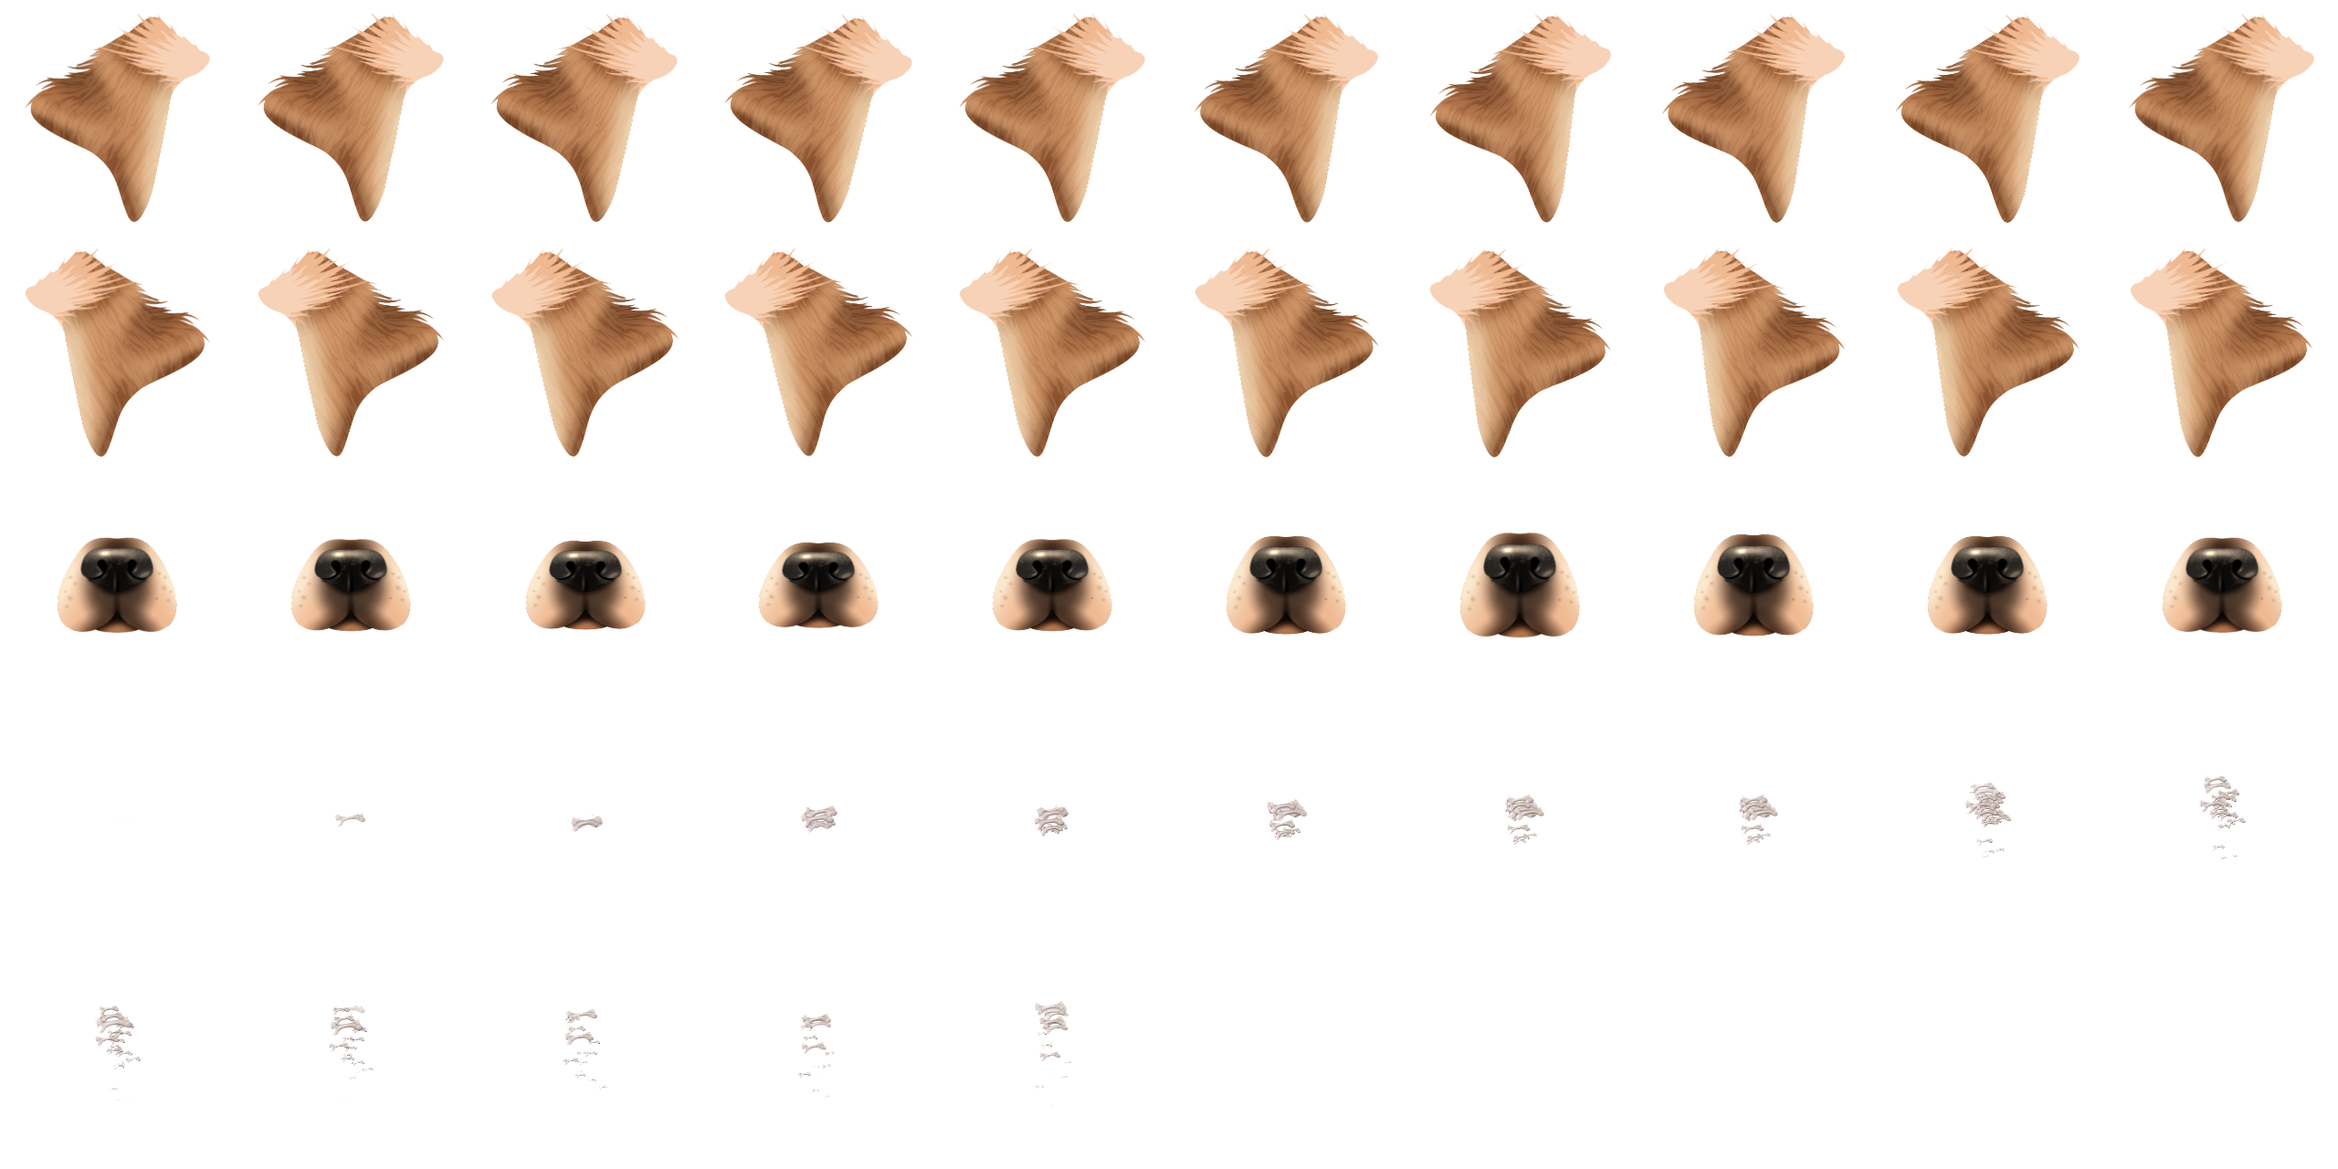
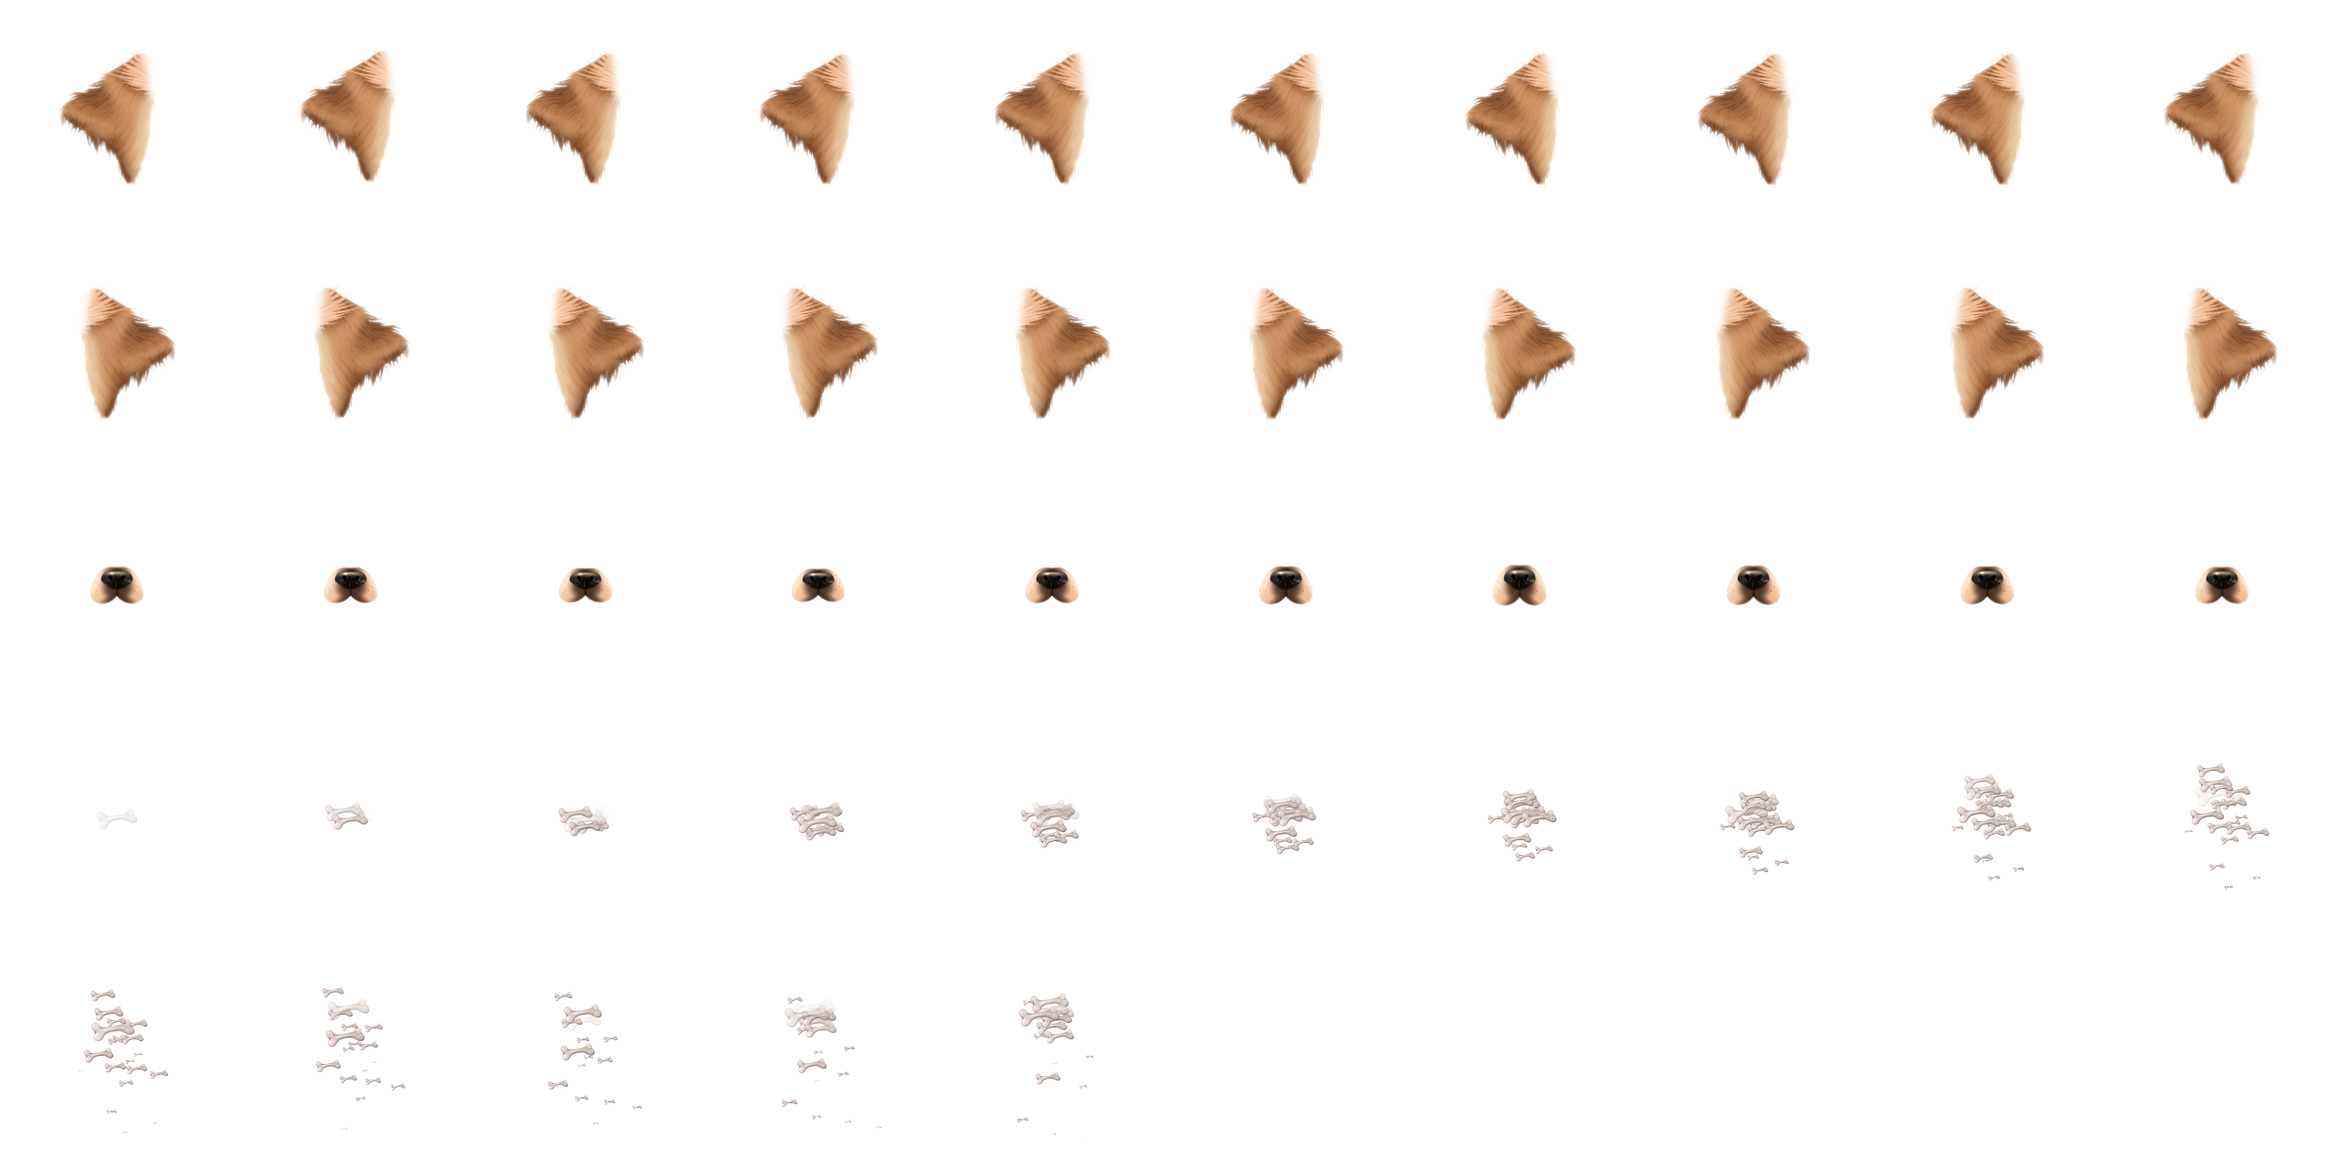
add semaphore

diff --git a/app/src/main/java/com/nhancv/facemask/tracking/FaceLandmarkTracking.java b/app/src/main/java/com/nhancv/facemask/tracking/FaceLandmarkTracking.java
@@ -17,6 +17,7 @@ import android.os.HandlerThread;
 import android.os.Message;
 import android.util.Log;
 
+import com.nhancv.facemask.fps.NSemaphore;
 import com.nhancv.facemask.fps.StableFps;
 import com.nhancv.facemask.m2d.OpenGLPreview;
 import com.nhancv.facemask.util.Constant;
@@ -25,6 +26,7 @@ import org.wysaid.nativePort.CGEDeformFilterWrapper;
 import org.wysaid.nativePort.CGENativeLibrary;
 
 import java.util.Locale;
+import java.util.concurrent.Semaphore;
 
 import zeusees.tracking.Face;
 import zeusees.tracking.FaceTracking;
@@ -81,7 +83,7 @@ public class FaceLandmarkTracking implements OnImageAvailableListener {
         this.openGlPreview = openGlPreview;
         this.mDeformWrapper = mDeformWrapper;
 
-        previewFps = new StableFps(30);
+        previewFps = new StableFps(10);
 
         redPaint = new Paint();
         redPaint.setColor(Color.RED);
@@ -105,7 +107,9 @@ public class FaceLandmarkTracking implements OnImageAvailableListener {
             @Override
             public void handleMessage(Message msg) {
                 if (msg.what == PREVIEW_RENDER_MSG) {
+                    long start = System.currentTimeMillis();
                     previewRenderProcess();
+                    Log.e(TAG, Thread.currentThread().getId() + " previewRenderHandler: " + (System.currentTimeMillis() - start) + "ms");
                 }
             }
         };
@@ -116,6 +120,8 @@ public class FaceLandmarkTracking implements OnImageAvailableListener {
             @Override
             public void handleMessage(Message msg) {
                 if (msg.what == FRAME_DATA_READY_MSG && multiTrack106 != null) {
+                    trackingSemaphore.acquire();
+                    long start = System.currentTimeMillis();
                     System.arraycopy(nv21Data, 0, trackingFrameBuffer, 0, nv21Data.length);
                     if (!initTrack106) {
                         multiTrack106.faceTrackingInit(trackingFrameBuffer, previewHeight, previewWidth);
@@ -123,6 +129,8 @@ public class FaceLandmarkTracking implements OnImageAvailableListener {
                     } else {
                         multiTrack106.faceTrackingUpdate(trackingFrameBuffer, previewHeight, previewWidth);
                     }
+                    trackingSemaphore.release();
+                    Log.e(TAG, Thread.currentThread().getId() + " trackingHandler: " + (System.currentTimeMillis() - start) + "ms");
                 }
             }
         };
@@ -160,9 +168,16 @@ public class FaceLandmarkTracking implements OnImageAvailableListener {
 
     }
 
+    private NSemaphore trackingSemaphore = new NSemaphore();
+
     @Override
     public void onImageAvailable(final ImageReader reader) {
-        if (!preImageProcess(reader)) return;
+        if(!trackingSemaphore.available()) return;
+        long start = System.currentTimeMillis();
+        if (!preImageProcess(reader)) {
+            return;
+        }
+        Log.e(TAG, Thread.currentThread().getId() + " onImageAvailable: " + (System.currentTimeMillis() - start) + "ms");
         // Fps for render to ui thread
         if (!previewFps.isStarted()) {
             previewFps.start(fps -> {
@@ -224,27 +239,27 @@ public class FaceLandmarkTracking implements OnImageAvailableListener {
             matrix.postTranslate(previewBmTmp.getHeight(), 0);
             Bitmap previewBm = Bitmap.createBitmap(previewBmTmp, 0, 0, previewBmTmp.getWidth(), previewBmTmp.getHeight(), matrix, false);
             // TODO: 2019-06-19 Filter with OpenGLES
-            Bitmap bmFiltered = CGENativeLibrary.filterImage_MultipleEffects(previewBm, Constant.EFFECT_ACTIVE, 1.0f);
+//            Bitmap bmFiltered = CGENativeLibrary.filterImage_MultipleEffects(previewBm, Constant.EFFECT_ACTIVE, 1.0f);
             // Show preview
             openGlPreview.maskUpdateLocation(face, previewWidth, previewHeight, transformMatrix);
 
             // Initialize a new Canvas instance
-            Canvas openGLCanvas = new Canvas(bmFiltered);
+            Canvas openGLCanvas = new Canvas(previewBm);
             openGlPreview.renderMaskToCanvas(openGLCanvas);
-
-            final String log;
-            long endTime = System.currentTimeMillis();
-            if (lastTime == 0 || endTime == lastTime) {
-                lastTime = System.currentTimeMillis();
-                log = "--";
-            } else {
-                log = String.format(Locale.getDefault(), "Fps: %d", 1000 / (endTime - lastTime));
-                lastTime = endTime;
-            }
 
             // Show landmark for debug
             // Draw landmarks to SurfaceView
             if (SHOW_LANDMARK) {
+                final String log;
+                long endTime = System.currentTimeMillis();
+                if (lastTime == 0 || endTime == lastTime) {
+                    lastTime = System.currentTimeMillis();
+                    log = "--";
+                } else {
+                    log = String.format(Locale.getDefault(), "Fps: %d", 1000 / (endTime - lastTime));
+                    lastTime = endTime;
+                }
+
                 openGLCanvas.setMatrix(transformMatrix);
                 if (face != null) {
                     Rect rect = new Rect(previewHeight - face.left, face.top, previewHeight - face.right, face.bottom);
@@ -263,7 +278,7 @@ public class FaceLandmarkTracking implements OnImageAvailableListener {
                 openGLCanvas.drawText(log, 10, 30, redPaint);
             }
 
-            openGlPreview.setImageBitmap(bmFiltered);
+            openGlPreview.setImageBitmap(previewBm);
 //            openGlPreview.flush(true, () -> {
 //                if (mDeformWrapper == null) return;
 //                mDeformWrapper.pushDeformStep();

diff --git a/app/src/main/java/com/nhancv/facemask/m2d/mask/dog/DogMask.java b/app/src/main/java/com/nhancv/facemask/m2d/mask/dog/DogMask.java
@@ -32,6 +32,7 @@ import android.graphics.BitmapFactory;
 import android.graphics.Canvas;
 import android.graphics.Matrix;
 import android.graphics.PointF;
+import android.util.Log;
 
 import com.nhancv.facemask.R;
 import com.nhancv.facemask.m2d.mask.BaseMask;
@@ -90,14 +91,13 @@ public class DogMask extends BaseMask implements Mask {
             super.update(face, previewWidth, previewHeight, scaleMatrix, solvePNP);
             //Buffer coors
             int nosePointId = 46;
-            int bonePointId = 0;
+            int bonePointId = 32;
             PointF noseF = new PointF(point2Ds[nosePointId].x, point2Ds[nosePointId].y);
             PointF boneF = new PointF(point2Ds[bonePointId].x, point2Ds[bonePointId].y);
             denoise(kmNoseX, kmNoseY, lastNoseF, noseF);
 
             Rotation rotation = new Rotation(solvePNP.getRx(), solvePNP.getRy(), solvePNP.getRz());
             Translation translation = new Translation(0, 0, solvePNP.getTz());
-
             float[] scalePts = new float[9];
             scaleMatrix.getValues(scalePts);
             float scaleX = scalePts[0]; // x value
@@ -122,19 +122,26 @@ public class DogMask extends BaseMask implements Mask {
                 boneBmTmp = null;
             }
 
-
-            PointF leftEarF = new PointF(point2Ds[19].x, point2Ds[19].y);
-            PointF rightEarF = new PointF(point2Ds[74].x, point2Ds[74].y);
+            PointF leftEarF = new PointF(point2Ds[11].x, point2Ds[11].y);
+            PointF rightEarF = new PointF(point2Ds[13].x, point2Ds[13].y);
             float earRatio = leftBm.getHeight() * 1.0f / leftBm.getWidth();
             float earW = Math.abs(1f * faceRect.width()) * scaleX;
             float earH = earW * earRatio;
-            leftBmTmp = Bitmap.createScaledBitmap(leftBm, (int) (earW), (int) (earH), false);
-            transformMat(leftBmMt, leftBmTmp.getWidth() / 2f, leftBmTmp.getHeight() / 2f, leftEarF.x * scaleX - leftBmTmp.getWidth() / 2f,
-                    leftEarF.y * scaleY - leftBmTmp.getHeight() / 2f, rotation, translation);
+            if (rotation.y > -10) {
+                leftBmTmp = Bitmap.createScaledBitmap(leftBm, (int) (earW), (int) (earH), false);
+                transformMat(leftBmMt, leftBmTmp.getWidth() / 2f, leftBmTmp.getHeight() / 2f, leftEarF.x * scaleX - leftBmTmp.getWidth() / 2f,
+                        leftEarF.y * scaleY - leftBmTmp.getHeight() / 2f, rotation, translation);
+            } else {
+                leftBmTmp = null;
+            }
 
-            rightBmTmp = Bitmap.createScaledBitmap(rightBm, (int) (earW), (int) (earH), false);
-            transformMat(rightBmMt, rightBmTmp.getWidth() / 2f, rightBmTmp.getHeight() / 2f, rightEarF.x * scaleX - rightBmTmp.getWidth() / 2f,
-                    rightEarF.y * scaleY - rightBmTmp.getHeight() / 2f, rotation, translation);
+            if (rotation.y < 10) {
+                rightBmTmp = Bitmap.createScaledBitmap(rightBm, (int) (earW), (int) (earH), false);
+                transformMat(rightBmMt, rightBmTmp.getWidth() / 2f, rightBmTmp.getHeight() / 2f, rightEarF.x * scaleX - rightBmTmp.getWidth() / 2f,
+                        rightEarF.y * scaleY - rightBmTmp.getHeight() / 2f, rotation, translation);
+            } else {
+                rightBmTmp = null;
+            }
 
             float noseRatio = noseBm.getHeight() * 1.0f / noseBm.getWidth();
             float noseW = Math.abs(1f * faceRect.width()) * scaleX;

diff --git a/app/src/main/java/com/nhancv/facemask/fps/NSemaphore.java b/app/src/main/java/com/nhancv/facemask/fps/NSemaphore.java
@@ -24,47 +24,21 @@
  * @author Nhan Cao <nhan.cao@beesightsoft.com>
  */
 
-package com.nhancv.facemask.m2d;
+package com.nhancv.facemask.fps;
 
-import android.content.Context;
-import android.graphics.Canvas;
-import android.graphics.Matrix;
-import android.util.AttributeSet;
+public class NSemaphore {
+    private volatile int semaphore = 0;
 
-import com.nhancv.facemask.m2d.mask.MaskUpdater;
-
-import org.wysaid.view.ImageGLSurfaceView;
-
-import zeusees.tracking.Face;
-
-
-public class OpenGLPreview extends ImageGLSurfaceView {
-
-    private static final String TAG = OpenGLPreview.class.getSimpleName();
-
-    private MaskUpdater maskUpdater;
-
-    public OpenGLPreview(Context context) {
-        this(context, null);
+    public synchronized boolean available() {
+        return semaphore == 0;
     }
 
-    public OpenGLPreview(Context context, AttributeSet attrs) {
-        super(context, attrs);
-        maskUpdater = new MaskUpdater(context);
+    public synchronized void acquire() {
+        ++semaphore;
     }
 
-    public void maskUpdateLocation(Face face, int previewWidth, int previewHeight, Matrix scaleMatrix) {
-        this.maskUpdater.maskUpdateLocation(face, previewWidth, previewHeight, scaleMatrix);
-    }
-
-    public void renderMaskToCanvas(Canvas canvas) {
-        // Draw 2dMask
-        this.maskUpdater.onDraw(canvas);
-    }
-
-    @Override
-    protected void onDetachedFromWindow() {
-        super.onDetachedFromWindow();
+    public synchronized void release() {
+        --semaphore;
     }
 
 }

diff --git a/app/src/main/java/com/nhancv/facemask/m2d/mask/dog/DogSprites.java b/app/src/main/java/com/nhancv/facemask/m2d/mask/dog/DogSprites.java
@@ -103,9 +103,10 @@ public class DogSprites {
 //        m.preScale(-1, 1);
         Bitmap bm = findSprite(1, m);
         if (bm == null) return null;
-        Bitmap bmFinal = Bitmap.createBitmap(384, SPRITE_SIZE, Bitmap.Config.ARGB_8888);
+        Bitmap bmFinal = Bitmap.createBitmap(328, SPRITE_SIZE, Bitmap.Config.ARGB_8888);
         Canvas canvas = new Canvas(bmFinal);
         canvas.drawBitmap(bm, 0, 0, null);
+        if(!bm.isRecycled()) bm.recycle();
         return bmFinal;
     }
 
@@ -113,15 +114,22 @@ public class DogSprites {
         Matrix m = new Matrix();
         Bitmap bm = findSprite(2, m);
         if (bm == null) return null;
-        Bitmap bmFinal = Bitmap.createBitmap(384, SPRITE_SIZE, Bitmap.Config.ARGB_8888);
+        Bitmap bmFinal = Bitmap.createBitmap(328, SPRITE_SIZE, Bitmap.Config.ARGB_8888);
         Canvas canvas = new Canvas(bmFinal);
-        canvas.drawBitmap(bm, 126, 0, null);
+        canvas.drawBitmap(bm, 70, 0, null);
+        if(!bm.isRecycled()) bm.recycle();
         return bmFinal;
     }
 
     public Bitmap nose() {
         Matrix m = new Matrix();
-        return findSprite(3, m);
+        Bitmap bm = findSprite(3, m);
+        if (bm == null) return null;
+        Bitmap bmFinal = Bitmap.createBitmap(SPRITE_SIZE, SPRITE_SIZE, Bitmap.Config.ARGB_8888);
+        Canvas canvas = new Canvas(bmFinal);
+        canvas.drawBitmap(bm, 0, -10, null);
+        if(!bm.isRecycled()) bm.recycle();
+        return bmFinal;
     }
 
     public Bitmap bone() {

diff --git a/app/src/main/java/com/nhancv/facemask/m2d/mask/MaskUpdater.java b/app/src/main/java/com/nhancv/facemask/m2d/mask/MaskUpdater.java
@@ -43,22 +43,15 @@ public class MaskUpdater {
     private static final String TAG = MaskUpdater.class.getSimpleName();
 
     private Mask mask;
-    private StableFps stableFps;
     private SolvePNP solvePNP;
 
     public MaskUpdater(Context context) {
         //start thread
-        stableFps = new StableFps(20);
         solvePNP = SolvePNP.getInstance();
         //init rabbit_mask
 //        mask = new RabbitMask();
         mask = new DogMask();
         mask.init(context);
-    }
-
-    // Call on onDetachedFromWindow
-    public void stopUpdatingFps() {
-        stableFps.stop();
     }
 
     public void maskUpdateLocation(Face face, int previewWidth, int previewHeight, Matrix scaleMatrix) {

diff --git a/library/src/main/java/org/wysaid/view/SimplePlayerGLSurfaceView.java b/library/src/main/java/org/wysaid/view/SimplePlayerGLSurfaceView.java
@@ -455,7 +455,7 @@ public class SimplePlayerGLSurfaceView extends GLSurfaceView implements GLSurfac
         mRenderViewport.height = h;
         mRenderViewport.x = (mViewWidth - mRenderViewport.width) / 2;
         mRenderViewport.y = (mViewHeight - mRenderViewport.height) / 2;
-        Log.i(LOG_TAG, String.format("View port: %d, %d, %d, %d", mRenderViewport.x, mRenderViewport.y, mRenderViewport.width, mRenderViewport.height));
+//        Log.i(LOG_TAG, String.format("View port: %d, %d, %d, %d", mRenderViewport.x, mRenderViewport.y, mRenderViewport.width, mRenderViewport.height));
     }
 
     private void _useUri() {

diff --git a/library/src/main/java/org/wysaid/view/VideoPlayerGLSurfaceView.java b/library/src/main/java/org/wysaid/view/VideoPlayerGLSurfaceView.java
@@ -424,7 +424,7 @@ public class VideoPlayerGLSurfaceView extends GLSurfaceView implements GLSurface
         mRenderViewport.height = h;
         mRenderViewport.x = (mViewWidth - mRenderViewport.width) / 2;
         mRenderViewport.y = (mViewHeight - mRenderViewport.height) / 2;
-        Log.i(LOG_TAG, String.format("View port: %d, %d, %d, %d", mRenderViewport.x, mRenderViewport.y, mRenderViewport.width, mRenderViewport.height));
+//        Log.i(LOG_TAG, String.format("View port: %d, %d, %d, %d", mRenderViewport.x, mRenderViewport.y, mRenderViewport.width, mRenderViewport.height));
     }
 
     private void _useUri() {

diff --git a/app/src/main/java/com/nhancv/facemask/CameraFragment.java b/app/src/main/java/com/nhancv/facemask/CameraFragment.java
@@ -352,7 +352,7 @@ public class CameraFragment extends Fragment
                             rotatedPreviewWidth, rotatedPreviewHeight, maxPreviewWidth,
                             maxPreviewHeight, aspectRatio);
 
-                    Log.e(TAG, "setUpCameraOutputs previewSize: " + previewSize);
+                    Log.d(TAG, "setUpCameraOutputs previewSize: " + previewSize);
                     // Check if the flash is supported.
                     Boolean available = characteristics.get(CameraCharacteristics.FLASH_INFO_AVAILABLE);
                     flashSupported = available == null ? false : available;

diff --git a/library/src/main/java/org/wysaid/view/CameraGLSurfaceView.java b/library/src/main/java/org/wysaid/view/CameraGLSurfaceView.java
@@ -325,6 +325,6 @@ public class CameraGLSurfaceView extends GLSurfaceView implements GLSurfaceView.
         mDrawViewport.height = h;
         mDrawViewport.x = (mViewWidth - mDrawViewport.width) / 2;
         mDrawViewport.y = (mViewHeight - mDrawViewport.height) / 2;
-        Log.i(LOG_TAG, String.format("View port: %d, %d, %d, %d", mDrawViewport.x, mDrawViewport.y, mDrawViewport.width, mDrawViewport.height));
+//        Log.i(LOG_TAG, String.format("View port: %d, %d, %d, %d", mDrawViewport.x, mDrawViewport.y, mDrawViewport.width, mDrawViewport.height));
     }
 }

diff --git a/library/src/main/java/org/wysaid/view/ImageGLSurfaceView.java b/library/src/main/java/org/wysaid/view/ImageGLSurfaceView.java
@@ -406,6 +406,6 @@ public class ImageGLSurfaceView extends GLSurfaceView implements Renderer {
         mRenderViewport.x = (mViewWidth - w) / 2;
         mRenderViewport.y = (mViewHeight - h) / 2;
 
-        Log.i(LOG_TAG, String.format("View port: %d, %d, %d, %d", mRenderViewport.x, mRenderViewport.y, mRenderViewport.width, mRenderViewport.height));
+//        Log.i(LOG_TAG, String.format("View port: %d, %d, %d, %d", mRenderViewport.x, mRenderViewport.y, mRenderViewport.width, mRenderViewport.height));
     }
 }

diff --git a/app/src/main/java/com/nhancv/facemask/pose/Rotation.java b/app/src/main/java/com/nhancv/facemask/pose/Rotation.java
@@ -30,9 +30,9 @@ package com.nhancv.facemask.pose;
 Define the rotation value along x-y-z axis
  */
 public class Rotation {
-    float x = 0;
-    float y = 0;
-    float z = 0;
+    public float x = 0;
+    public float y = 0;
+    public float z = 0;
 
     public Rotation(float x, float y, float z) {
         this.x = x;
